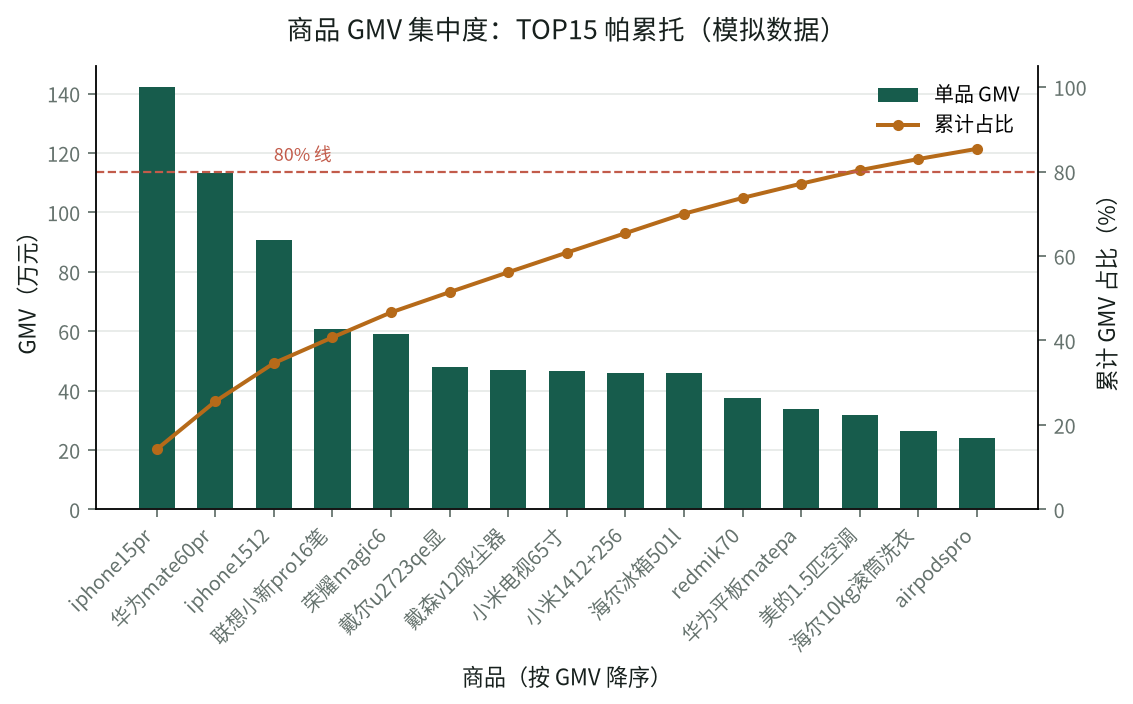
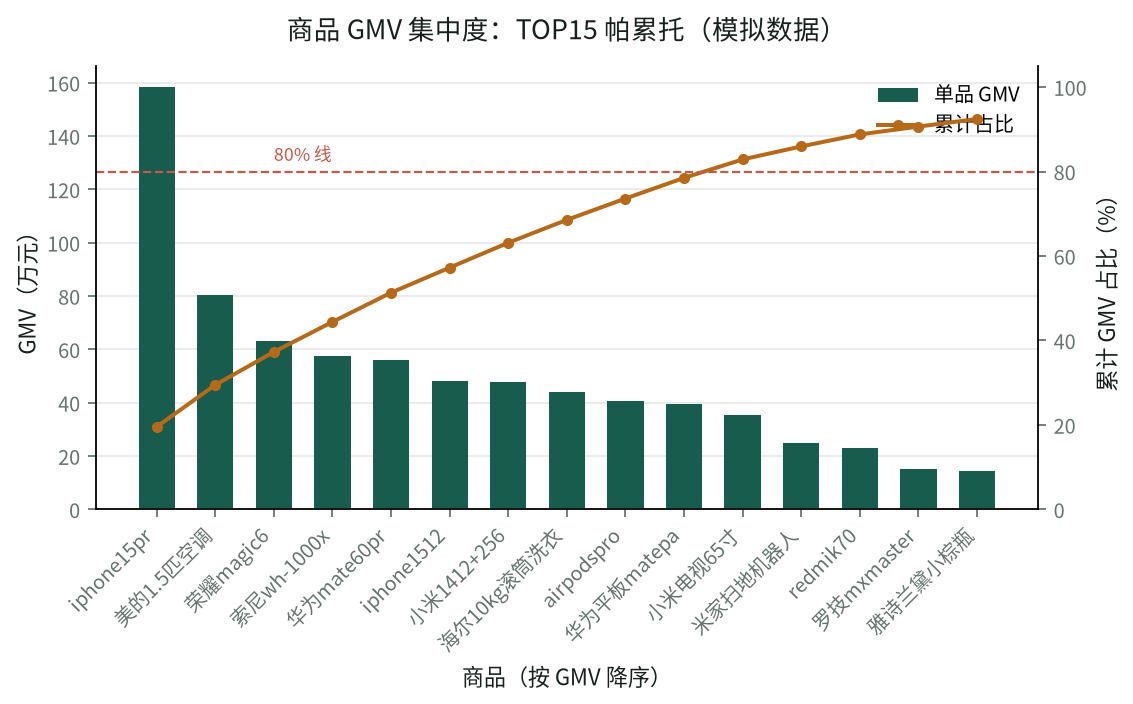
docs: 同步 README/AGENTS/环境记录与预览图
README：
- 项目产出补四个维度、九张图、17 项验证、13 个 Excel 工作表。
- 结论表补齐 5 张新图（流量漏斗、渠道流量质量、品类结构、发货时效、履约
  趋势），并按重新生成的数据更新原有 4 张图的数字。
- 图片表格补 fig5-9，宽图保持整行。
- 口径治理表补 7 个可选列、流量表、商品主数据，以及品类/品牌、动销率、
  退款、复购、地域、履约时效各行。
- 改写「明确不计算」：删掉已实现的 UV/转化率/复购率，保留毛利率/ROI/
  因果效果/真实埋点级行为。
- 测试数 111 → 191，验证项 10 → 17。

AGENTS.md：把「不得从订单明细推断流量」改为「流量只能来自显式合成流量表」，
并补上缺失维度必须报告原因、缺席与「未知」不可混淆、四个分母不可互换三条。
同时把校验命令从 unittest 换成 pytest —— unittest discover 只会跑到 4 个
unittest 用例、静默跳过其余 187 个，是个假绿。

环境记录：更新测试数、验证项数、图数，并用 LF 归一化后的 sha256 替换旧的
字节哈希（仓库内 CSV 是 LF，Windows 工作区是 CRLF，跨平台核对须先归一化）。

diff --git a/README.md b/README.md
@@ -2,19 +2,19 @@
 
 [![CI](https://github.com/l-sd/ecommerce-analytics-agent/actions/workflows/ci.yml/badge.svg)](https://github.com/l-sd/ecommerce-analytics-agent/actions/workflows/ci.yml)
 
-一个可复现的电商订单分析作品项目：从脏数据体检、清洗和口径确认开始，自动完成 KPI、渠道/商品分析、RFM 用户分层，并生成公式化 Excel、带图表的单文件 HTML 报告和验证记录；同一套分析逻辑同时驱动一个可交互的在线仪表盘。
+一个可复现的电商订单分析作品项目：从脏数据体检、清洗和口径确认开始，自动完成核心 KPI、渠道/商品分析、RFM 用户分层，并按**流量与转化 / 销售与商品 / 用户 / 履约跟踪**四个维度展开，生成公式化 Excel、带图表的单文件 HTML 报告和验证记录；同一套分析逻辑同时驱动一个可交互的在线仪表盘。
 
-> **数据声明：** 仓库中的订单全部由固定随机种子生成，是模拟练习数据，不包含真实企业、客户或交易信息。所有业务结论仅用于演示分析流程。
+> **数据声明：** 仓库中的订单、流量与商品主数据全部由固定随机种子生成，是模拟练习数据，不包含真实企业、客户或交易信息。所有业务结论仅用于演示分析流程。
 
 ![报告预览](docs/report-preview.png)
 
 ## 在线 Demo
 
-交互式仪表盘：可上传自己的 CSV/XLSX、按日期与渠道筛选、实时重算 KPI、下钻 RFM 分层。
+交互式仪表盘：可上传自己的 CSV/XLSX、按日期与渠道筛选、实时重算 KPI，按概览 / 流量与转化 / 销售与商品 / 用户 / 履约跟踪五个 Tab 展开，并下钻 RFM 分层。
 
 ![仪表盘预览](docs/dashboard-preview.png)
 
-> **在线体验：** <https://b3a5c4dfd1bf4fdfa309ce85d78bb267.sg.agentos-app.run> —— 免安装，直接打开即可上传数据、按日期与渠道筛选、下钻 RFM 分层并下载客户明细。
+> **在线体验：** <https://b3a5c4dfd1bf4fdfa309ce85d78bb267.sg.agentos-app.run> —— 免安装，直接打开即可上传数据、按日期与渠道筛选、切换维度 Tab 并下载客户明细。
 
 本地启动方式见[快速运行](#快速运行)。
 
@@ -22,14 +22,15 @@
 
 - **数据体检**：检查重复、日期/金额/数量异常、维度缺失和金额不一致。
 - **可追溯清洗**：保留原金额，按 `单价 × 数量` 重算金额，并记录每一条清洗规则。
-- **业务分析**：有效 GMV、订单量、客单价、连带率、渠道结构、月度趋势、商品集中度和 RFM 分层。
-- **四张业务图表**：时间、渠道、商品、客户四个视角，每张图对应一个具体业务问题。
-- **公式化 Excel**：3,000 行清洗明细中的金额和有效订单标记由 6,000 个公式生成。
+- **核心 KPI 与结构分析**：有效 GMV、订单量、客单价、连带率、渠道结构、月度趋势、商品集中度和 RFM 分层。
+- **四大分析维度**：按流量与转化、销售与商品、用户、履约跟踪组织指标，每个维度自带数据口径、计算逻辑与局限说明；缺少对应数据源时该维度明确报告「不可用」及原因，而不是渲染一张空表。
+- **九张业务图表**：时间、渠道、商品、客户、流量漏斗、渠道流量质量、品类结构、发货时效、履约趋势，每张图对应一个具体业务问题。
+- **公式化 Excel**：13 个工作表，3,000 行清洗明细中的金额和有效订单标记由 6,000 个公式生成。
 - **单文件 HTML**：图表以 base64 内嵌，无需服务端、无外部依赖即可打开。
-- **结果验证**：GMV 双路径计算、渠道/月度回算、5 行抽样核对、Excel 公式逻辑审计、HTML 结构检查、图表写入与内嵌检查，共 10 项。
+- **结果验证**：GMV 双路径计算、渠道/月度/品类/地域回算、流量漏斗单调性与订单守恒、履约漏斗单调性、动销率分母来源、退款拆分、5 行抽样核对、Excel 公式逻辑审计、HTML 结构检查、图表写入与内嵌检查，共 17 项。
 - **可复现性**：同一种子重新生成的数据与仓库文件逐字节一致，且由测试守住。
 
-默认演示数据包含 **3,090 行模拟订单、3,000 个唯一订单和 90 行重复记录**。流水线可稳定识别 **46 条日期缺失**和 **59 条可核对金额不一致**记录。完整数据质量结果见 [`artifacts/demo/cleaning_log.json`](artifacts/demo/cleaning_log.json)。
+默认演示数据包含三张合成表：**3,090 行订单明细**（3,000 个唯一订单、90 行重复）、**1,830 行流量表**（366 天 × 5 渠道）和 **50 行商品主数据**。流水线可稳定识别 **46 条日期缺失**和 **59 条可核对金额不一致**记录。完整数据质量结果见 [`artifacts/demo/cleaning_log.json`](artifacts/demo/cleaning_log.json)。
 
 ## 分析结论与图表
 
@@ -37,10 +38,15 @@
 
 | 图 | 业务问题 | 本数据集上的结论 |
 | --- | --- | --- |
-| 图 1 · 月度 GMV 与订单数趋势 | 生意在变好还是变差？波动来自单量还是客单价？ | 峰值 2024-03（¥961,676），谷值 2024-09（¥618,237），波动 55.6%；与客单价相关系数 **0.94**、与订单数仅 **0.13**，说明**波动由客单价驱动**，而非单量 |
-| 图 2 · 渠道 GMV 占比 | 钱主要从哪来？哪个渠道的单笔价值更高？ | 天猫 34.6% 为最大来源；**抖音客单价 ¥5,487 最高**，但 GMV 占比只有 14.8% |
-| 图 3 · 商品 GMV 集中度 | 多少 SKU 贡献了 80% 的 GMV？ | **13 个 SKU 即达到 80%**，TOP15 累计 85.4%，第一名单品占 14.2% |
-| 图 4 · RFM 分层画像 | 哪一类客户最该优先维护或挽回？ | 「重要挽留客户」48 人（GMV 27.5%）平均 **67 天**未回购，是最该召回的一层；「重要价值客户」37 人（GMV 25.4%）平均 8 天、13.8 次、人均 ¥65,819，三项均为最优 |
+| 图 1 · 月度 GMV 与订单数趋势 | 生意在变好还是变差？波动来自单量还是客单价？ | 峰值 2024-11（¥1,161,717），谷值 2024-09（¥327,475），波动 254.8%；与订单数相关系数 **0.96**、与客单价 **0.55**，说明**波动由订单量驱动**，而非客单价 |
+| 图 2 · 渠道 GMV 占比 | 钱主要从哪来？哪个渠道的单笔价值更高？ | 天猫 32.6% 为最大来源；**拼多多客单价 ¥4,216 最高**，但 GMV 占比只有 24.2% |
+| 图 3 · 商品 GMV 集中度 | 多少 SKU 贡献了 80% 的 GMV？ | **11 个 SKU 即达到 80%**，TOP15 累计 92.4%，第一名单品占 19.6% |
+| 图 4 · RFM 分层画像 | 哪一类客户最该优先维护或挽回？ | 「重要价值客户」251 人（GMV 38.3%）人均 2.9 单、¥11,944，频次与金额均为最优；「重要挽留客户」281 人（GMV 26.0%）平均 **245 天**未回购，是最该召回的一层 |
+| 图 5 · 流量转化漏斗 | 从曝光到下单，哪一环漏得最多？ | 曝光 736,792 → 访客 133,937 → 加购 36,947 → 下单 2,924；访客率 18.18%、加购率 27.59%、下单转化率 2.18%。绝对流失最大的是**曝光到访客（602,855 次）**，留存最低的是**加购到下单（7.91%）** |
+| 图 6 · 渠道流量质量 | 哪个渠道的流量「更值钱」？ | 天猫的 GMV 份额比曝光份额高 **8.8 个百分点**（下单转化率 3.02% 最高）；抖音反过来低 **11.8 个百分点**（1.23% 最低），属于流量贵而产出低的一档 |
+| 图 7 · 品类 GMV 结构 | 收入集中在哪些品类？ | **手机数码独占 61.6%**，前三品类合计 93.0%；食品占比仅 0.6%，是长尾里最薄的一层 |
+| 图 8 · 发货时效分布 | 发货节奏是否稳定？迟发有多严重？ | 平均 1.54 天、中位 1 天，58.9% 的订单次日发出；迟发率 **8.03%**（166 / 2,067 单），高于行业常设考核线 4% |
+| 图 9 · 履约趋势 | 迟发与逾期在一年里怎么走？ | 12 个月的迟发率**全部高于 4%**，均值 7.86%，峰值在 2024-05（11.18%）；逾期率均值 6.25% |
 
 <table>
 <tr>
@@ -52,6 +58,17 @@
 </tr>
 <tr>
 <td colspan="2"><img src="docs/figures/fig4_rfm_profile.png" alt="RFM 分层画像"></td>
+</tr>
+<tr>
+<td width="50%"><img src="docs/figures/fig5_traffic_funnel.png" alt="流量转化漏斗"></td>
+<td width="50%"><img src="docs/figures/fig6_channel_traffic_quality.png" alt="渠道流量质量"></td>
+</tr>
+<tr>
+<td width="50%"><img src="docs/figures/fig7_category_gmv.png" alt="品类 GMV 结构"></td>
+<td width="50%"><img src="docs/figures/fig8_fulfilment_delivery_lag.png" alt="发货时效分布"></td>
+</tr>
+<tr>
+<td colspan="2"><img src="docs/figures/fig9_fulfilment_trend.png" alt="履约趋势"></td>
 </tr>
 </table>
 
@@ -90,11 +107,11 @@ streamlit run app.py
 | 文件 | 内容 |
 | --- | --- |
 | `cleaned_orders.csv` | 去重、标准化并保留追溯字段的清洗明细 |
-| `cleaning_log.json` | 原始数据体检和清洗规则 |
-| `analysis.json` | KPI、渠道、月度、商品、RFM 和图表结论的结构化结果 |
-| `ecommerce_analysis.xlsx` | 公式化明细、分析表和口径说明 |
-| `report.html` | 带图表的单文件分析报告 |
-| `figures/*.png` | 四张业务图表 |
+| `cleaning_log.json` | 原始数据体检、清洗规则，以及哪些可选列由上传文件提供 |
+| `analysis.json` | KPI、渠道、月度、商品、RFM，加上流量/销售/用户/履约四个维度与图表结论 |
+| `ecommerce_analysis.xlsx` | 13 个工作表：公式化明细、分析摘要、渠道/月度/商品/RFM，以及流量与转化、品类分析、品牌分析、退款分析、地域分布、履约跟踪、口径与验证 |
+| `report.html` | 带 9 张内嵌图表的单文件分析报告，四个维度各成一节 |
+| `figures/*.png` | 九张业务图表 |
 | `validation.json` / `validation.md` | 自动化验证结果和人类可读记录 |
 
 仓库提交了默认参数生成的示例产物，招聘者无需运行代码也能直接查看结果。
@@ -103,6 +120,8 @@ streamlit run app.py
 
 每个数字都必须能回答「怎么算的、排除了什么、在哪里验证」。
 
+订单明细的必需列为 11 列；另有 7 列可选列（商品品类、承诺发货时效、物流商、承诺送达时效、发货时间、签收时间、退款原因）。上传的文件没带这些列时，依赖它们的维度会明确报告不可用——**缺席与「未知」是两种状态**，把缺失填成「未知」会让可用性判断说谎。
+
 | 指标 | 口径 | 验证方式 | 排除项 |
 | --- | --- | --- | --- |
 | 有效订单 | 订单状态不为「已退款」「已取消」，且金额可重算 | 与清洗日志计数交叉核对 | 退款、取消、金额无法重算的订单 |
@@ -110,27 +129,37 @@ streamlit run app.py
 | 客单价 | 有效 GMV / 有效订单数 | 分母口径与「有效订单」一致 | 无 |
 | 连带率 | 有效商品件数 / 有效订单数 | 与有效订单数同源 | 数量缺失的订单 |
 | 渠道 / 月度 / 商品 | 在有效订单上按维度汇总 | 各维度汇总须能回算到有效 GMV | 渠道缺失记为「未知」；日期缺失不进入月度 |
+| 流量与转化 | 曝光/访客/加购来自合成流量表；**下单数由订单明细按渠道 × 日期回填** | 逐行漏斗单调（曝光 ≥ 访客 ≥ 加购 ≥ 下单）+ `Σ下单数` 与可归属订单严格守恒 | 渠道未知或日期不可解析的订单不进入漏斗 |
+| 品类 / 品牌 | 品类来自订单列；品牌来自商品主数据，按商品 ID 连接 | 品类汇总回算到有效 GMV；品牌是 TOP10 切片，**不回算** | 未提供主数据时品牌不可用；连不上主数据的订单不计入品牌 |
+| 动销率 | 有销量 SKU / **商品主数据中的在售 SKU** | 分母须来自主数据且 > 0；有销量 SKU ⊆ 在售 SKU | 未提供主数据时该指标不可用——用明细反推会让它恒为 100% |
+| 退款 | 已退款订单 / **该渠道全量订单**（含退款与取消） | 有效 GMV + 退款金额 + 取消金额 = 全量金额绝对值之和 | 分母与核心 KPI 不同，两者不可相加或对比 |
+| 复购 / 集中度 | 有效订单中下单 ≥ 2 次的客户 / 有效客户数 | 频次分桶人数合计等于有效客户数 | 未合并同一自然人账号；窗口仅一年 |
+| 地域 | 有效订单按收货省份汇总 | 各省汇总回算到有效 GMV | 省份缺失记为「未知」 |
+| 发货 / 签收时效 | 发货时间 − 下单日期；签收时间 − 发货时间 | 迟发率分母 = 应发订单数；逾期率分母 = 已签收订单数 | 待发货不进迟发分母；窗口末端的在途订单会低估签收率 |
 | RFM | 排除未知用户与缺失日期，按最近购买、频次、金额各三等分 | 分位用 `rank` 后切分，规避并列值 | 未知用户、日期缺失、无效订单 |
 
-**明确不计算**：UV、转化率、毛利率、ROI、复购率、因果效果。模拟订单数据不包含曝光、成本或用户行为证据，任何此类指标都只能是编造。
+**明确不计算**：毛利率、ROI、因果效果、真实埋点级行为。流量与转化率只能来自显式的合成流量表，不从订单明细反推；数据里没有成本、曝光明细或实验设计，任何这类指标都只能是编造。
 
 ## 验证
 
 ```bash
-pytest                                    # 111 个测试
+pytest                                    # 191 个测试
 ruff check .                              # 代码风格
 ```
 
-测试覆盖：数据清洗边界、日期解析（含 Excel 序列号开区间）、输入错误处理、图表空输入与配色循环、RFM 分层画像的分层取值与配色一致性、图表行布局（宽图独占整行）、仪表盘端到端渲染、以及**数据可复现性**。
+测试覆盖：数据清洗边界、日期解析（含 Excel 序列号开区间）、输入错误处理、图表空输入与配色循环、RFM 分层画像的分层取值与配色一致性、图表行布局（宽图独占整行）、仪表盘端到端渲染、四个维度的口径与守恒、流量表漏斗不变量、以及**数据可复现性**。
 
-流水线自带 10 项验证，全部通过后才会以退出码 0 结束；任一项失败会以非零退出码中止，因此可以直接用于 CI 门禁。默认数据的关键断言：
+流水线自带 17 项验证，全部通过后才会以退出码 0 结束；任一项失败会以非零退出码中止，因此可以直接用于 CI 门禁。默认数据的关键断言：
 
 - 3,090 行、3,000 个唯一订单、90 行重复；
 - 46 条日期缺失、140 条单价缺失或不可解析、57 条数量缺失；
 - 61 条数量为 0、284 条负数量、335 条金额缺失；
 - 59 条可核对金额不一致；
-- GMV 双路径差额 ¥0.00，渠道和月度汇总均能回算到有效 GMV；
-- Excel 6,000 个公式无异常行，HTML 关键区块与 4 张内嵌图表完整。
+- GMV 双路径差额 ¥0.00，渠道、月度、品类、地域四路汇总均能回算到有效 GMV（¥8,095,612.20）；
+- 流量表 1,830 行逐行漏斗单调，`Σ下单数` 2,924 与可归属订单数严格相等；
+- 履约漏斗 3,000 → 2,067 → 1,630 单调，动销率分母 45 / 50 来自商品主数据；
+- 有效 GMV + 退款金额 + 取消金额 = 全量金额绝对值之和（¥9,835,592.50）；
+- Excel 6,000 个公式无异常行，HTML 关键区块与 9 张内嵌图表完整。
 
 ### 跨平台验证
 
@@ -141,15 +170,16 @@ CI 在 **Ubuntu / Windows / macOS × Python 3.11 / 3.12 / 3.13** 共 9 个组合
 ## 项目结构
 
 ```text
-app.py                 # Streamlit 交互仪表盘
+app.py                 # Streamlit 交互仪表盘（5 个 Tab）
 src/ecommerce_analytics/
-  demo_data.py         # 固定种子模拟数据
-  pipeline.py          # 数据体检、清洗、KPI、渠道/商品/RFM
-  visuals.py           # 四张业务图表（含跨平台中文字体回退）
+  demo_data.py         # 固定种子模拟数据（订单 + 流量 + 商品主数据）
+  pipeline.py          # 数据体检、清洗，并作为 analyze_orders 门面
+  analysis/            # 四个维度各一个模块，口径与局限随数字一起返回
+  visuals.py           # 九张业务图表（含跨平台中文字体回退）
   deliverables.py      # Excel、HTML 和验证记录
   cli.py               # 命令行入口
-tests/                 # 清洗、日期、错误处理、图表、仪表盘、可复现性
-data/                  # 提交的模拟订单及生成清单
+tests/                 # 清洗、日期、错误处理、图表、仪表盘、维度分析、流量表、可复现性
+data/                  # 提交的模拟订单、流量表、商品主数据及生成清单
 artifacts/demo/        # 提交的示例交付物
 docs/figures/          # README 引用的图表
 packages.txt           # Streamlit Cloud 需要的系统包（CJK 字体）
@@ -157,9 +187,11 @@ packages.txt           # Streamlit Cloud 需要的系统包（CJK 字体）
 
 ## 局限
 
-这是作品集中的流程演示，不是生产系统。模拟数据的 GMV、复购或商品表现不应被解释为真实业务成果；报告中的建议仅展示分析组织方式。项目不包含数据库、实时任务调度、权限系统或线上监控。
+这是作品集中的流程演示，不是生产系统。模拟数据的 GMV、复购、转化率或履约表现都不应被解释为真实业务成果；报告中的结论仅展示分析组织方式。
 
-数据仅包含订单明细，因此无法计算 UV、转化率、毛利率、ROI 或因果增量；缺失单价或数量的订单无法重算金额，相关 GMV 口径会排除这些记录。
+数据包含订单明细、合成流量表和商品主数据三张表，因此能演示流量转化、动销率和履约时效的组织方式；但这些数字由固定种子生成，只用于验证流程能识别预设模式（例如抖音的高退款率、11 月的订单高峰、邮政的高迟发率）。数据里没有成本、曝露出处或实验设计，所以仍然无法计算毛利率、ROI 或因果增量；缺失单价或数量的订单无法重算金额，相关 GMV 口径会排除这些记录。
+
+项目不包含数据库、实时任务调度、权限系统或线上监控。
 
 ## License
 

diff --git a/docs/environment-verified.md b/docs/environment-verified.md
@@ -60,19 +60,25 @@ tzdata==2026.4
 | 检查项 | 结果 |
 | --- | --- |
 | `pip install -e ".[dev]"` 干净环境安装 | 通过 |
-| 模拟数据可复现性（同种子重生成） | 通过，sha256 一致 |
-| 完整流水线 `run` | 通过，10 项验证全部 PASSED |
-| 自动化测试 | 通过，111 个测试全绿 |
+| 模拟数据可复现性（同种子重生成） | 通过，三张表 sha256 均一致 |
+| 完整流水线 `run` | 通过，17 项验证全部 PASSED |
+| 自动化测试 | 通过，191 个测试全绿 |
 | 代码风格 `ruff check src tests` | 通过，0 问题 |
-| 四张业务图表渲染（中文无豆腐块） | 通过 |
-| HTML 报告内嵌图表 | 通过，4 张图以 base64 内嵌，单文件可离线打开 |
+| 九张业务图表渲染（中文无豆腐块） | 通过 |
+| HTML 报告内嵌图表 | 通过，9 张图以 base64 内嵌，单文件可离线打开 |
 
-**可复现性证据**：用同一随机种子重新生成数据，与仓库中已提交的文件逐字节一致。
+**可复现性证据**：用同一随机种子重新生成数据，与仓库中已提交的三个文件内容一致。
+
+比对时忽略行尾差异：`.gitattributes` 把 `*.csv` 固定为 `eol=lf`，所以仓库里存的是 LF，而 Windows 上 pandas 写出的工作区文件是 CRLF。下面给出的是**归一化到 LF 之后**的哈希，也就是仓库里实际存储的字节，任何平台克隆下来都能直接核对：
 
 ```text
-data/synthetic_orders.csv        sha256=ea4ecc065cc24af7  bytes=294607
-（重新生成）                      sha256=ea4ecc065cc24af7  bytes=294607
+data/synthetic_orders.csv        sha256=9c213f59a316b52d  bytes=413246
+（重新生成）                      sha256=9c213f59a316b52d  bytes=413246
+data/synthetic_traffic.csv       sha256=6eedff8e8d83213a  bytes=59324
+data/synthetic_products.csv      sha256=6acd002667f10556  bytes=2946
 ```
+
+`tests/test_reproducibility.py` 用同一条规则（`\r\n` → `\n` 后比较）守住这个承诺，所以在三平台 CI 上都能通过。
 
 ## 四、本次修复的两个真实缺陷
 
@@ -115,4 +121,4 @@ python -m pytest
 ruff check src tests
 ```
 
-预期输出：`Pipeline passed`，`artifacts/demo/validation.md` 中 10 项全部 `[PASS]`，测试全绿。
+预期输出：`Pipeline passed`，`artifacts/demo/validation.md` 中 17 项全部 `[PASS]`，测试全绿。

diff --git a/AGENTS.md b/AGENTS.md
@@ -1,15 +1,28 @@
 # Project working rules
 
-- Treat `data/synthetic_orders.csv` as synthetic practice data, never as a real
+- Treat `data/synthetic_orders.csv`, `data/synthetic_traffic.csv`, and
+  `data/synthetic_products.csv` as synthetic practice data, never as a real
   company's transactions.
 - Preserve raw inputs. Write generated files under a caller-provided output
   directory.
 - Keep metric definitions explicit. This project defines valid orders as rows
   whose status is neither `已退款` nor `已取消`.
-- Do not infer traffic, conversion, profit, ROI, or causal business impact from
-  order-only data.
+- Traffic and conversion metrics may only come from the explicit synthetic
+  traffic table. Never infer exposure, visitors, or conversion from the order
+  detail -- the two sides reconcile through `下单数` and nothing else.
+- Do not infer profit, ROI, or causal business impact. The data carries no cost,
+  exposure provenance, or experiment design, so any such number would be invented.
+- Report a missing dimension as `{"available": false, "reason": ...}` rather than
+  rendering an empty table. Never fill an absent optional column with `未知`:
+  absence and "unknown" are different states, and conflating them makes the
+  availability check lie.
+- Keep the denominators apart. 迟发率 divides by shipped orders, 逾期率 by
+  delivered orders, 退款率 by all orders, and the core KPIs by valid orders.
+  They are not interchangeable and must not be added together.
 - Every report must include cleaning decisions, validation results, and known
   limitations.
-- Before publishing changes, run `python -m unittest discover -s tests -v` and
-  the two README demo commands from a clean environment.
+- Before publishing changes, run `pytest` and `ruff check .`, then the two README
+  demo commands from a clean environment. Note that
+  `python -m unittest discover -s tests` only picks up the four `unittest`-style
+  cases and silently skips the rest, so it is not a substitute for `pytest`.
 
